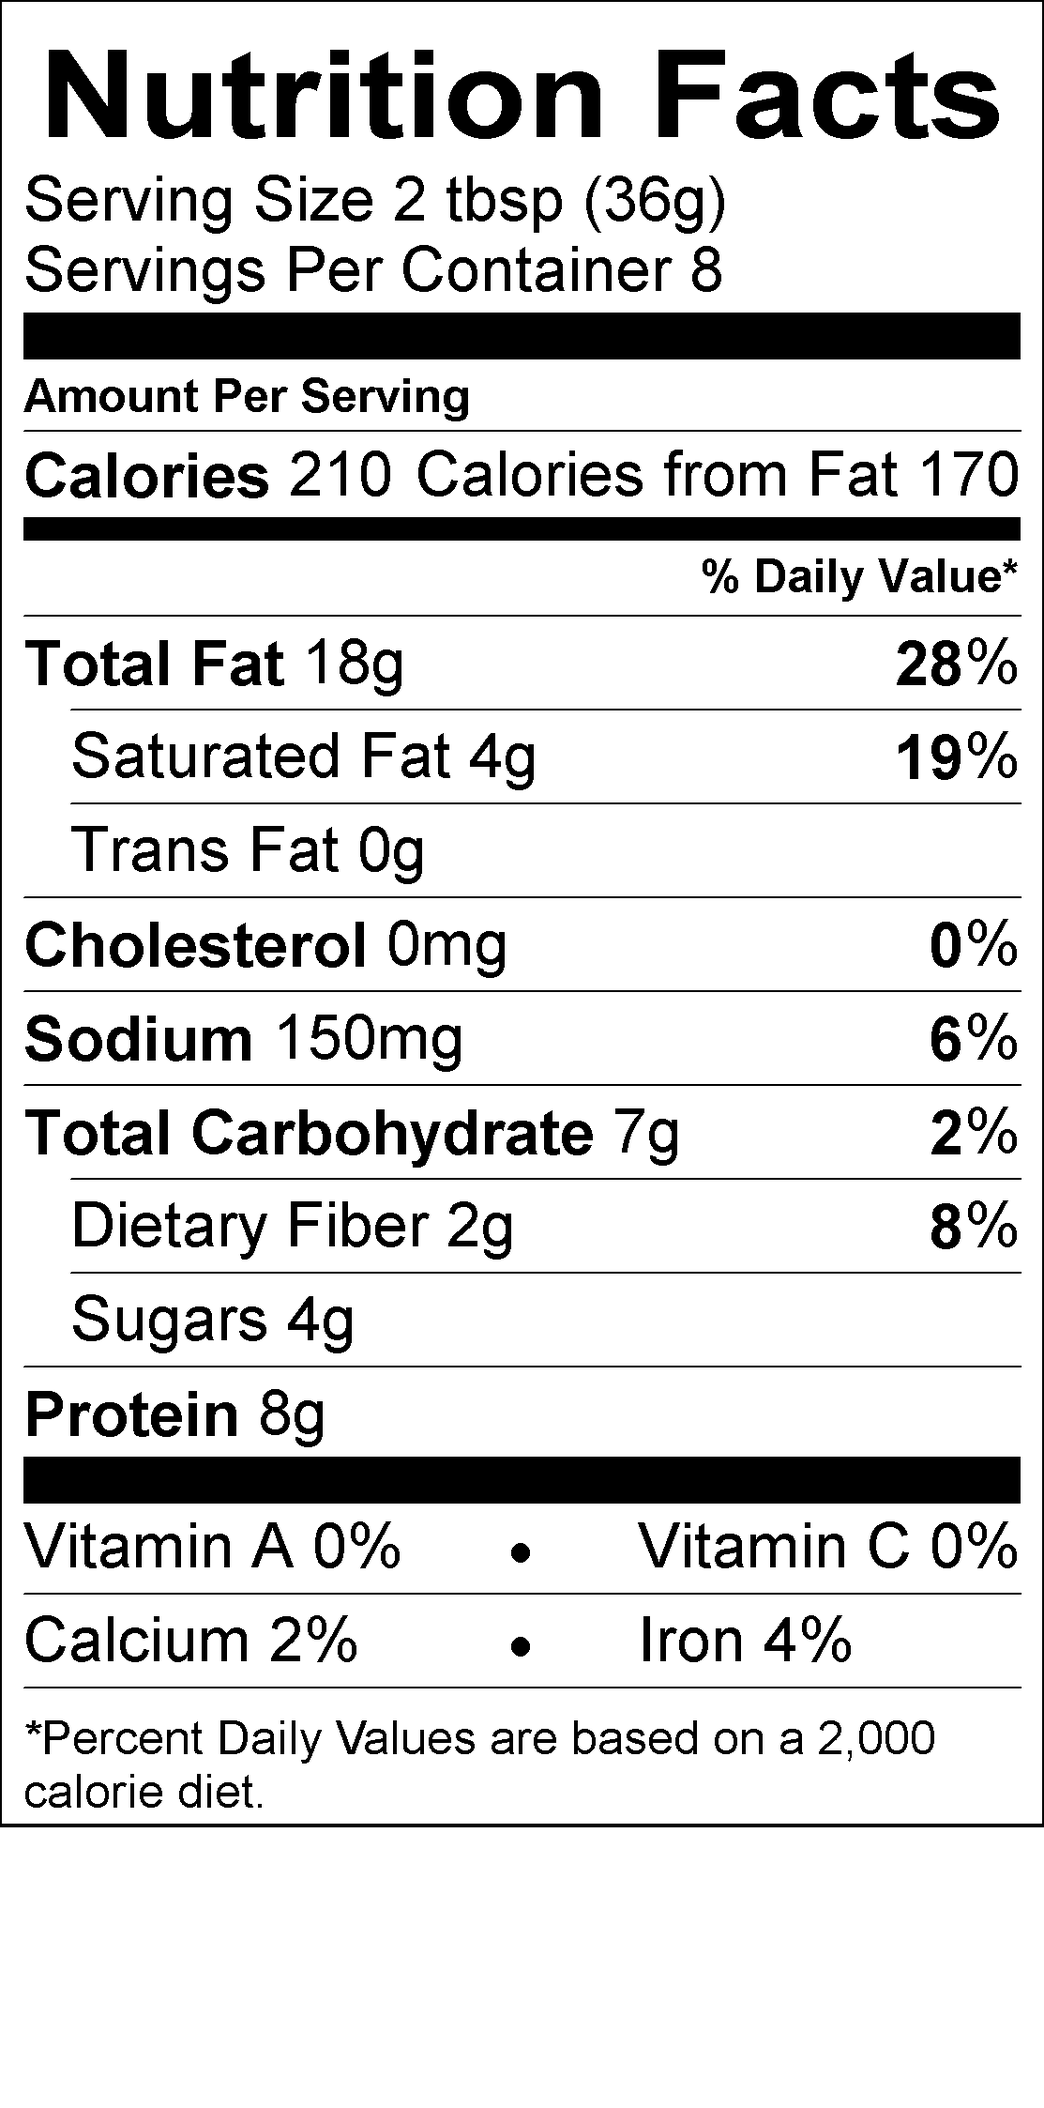
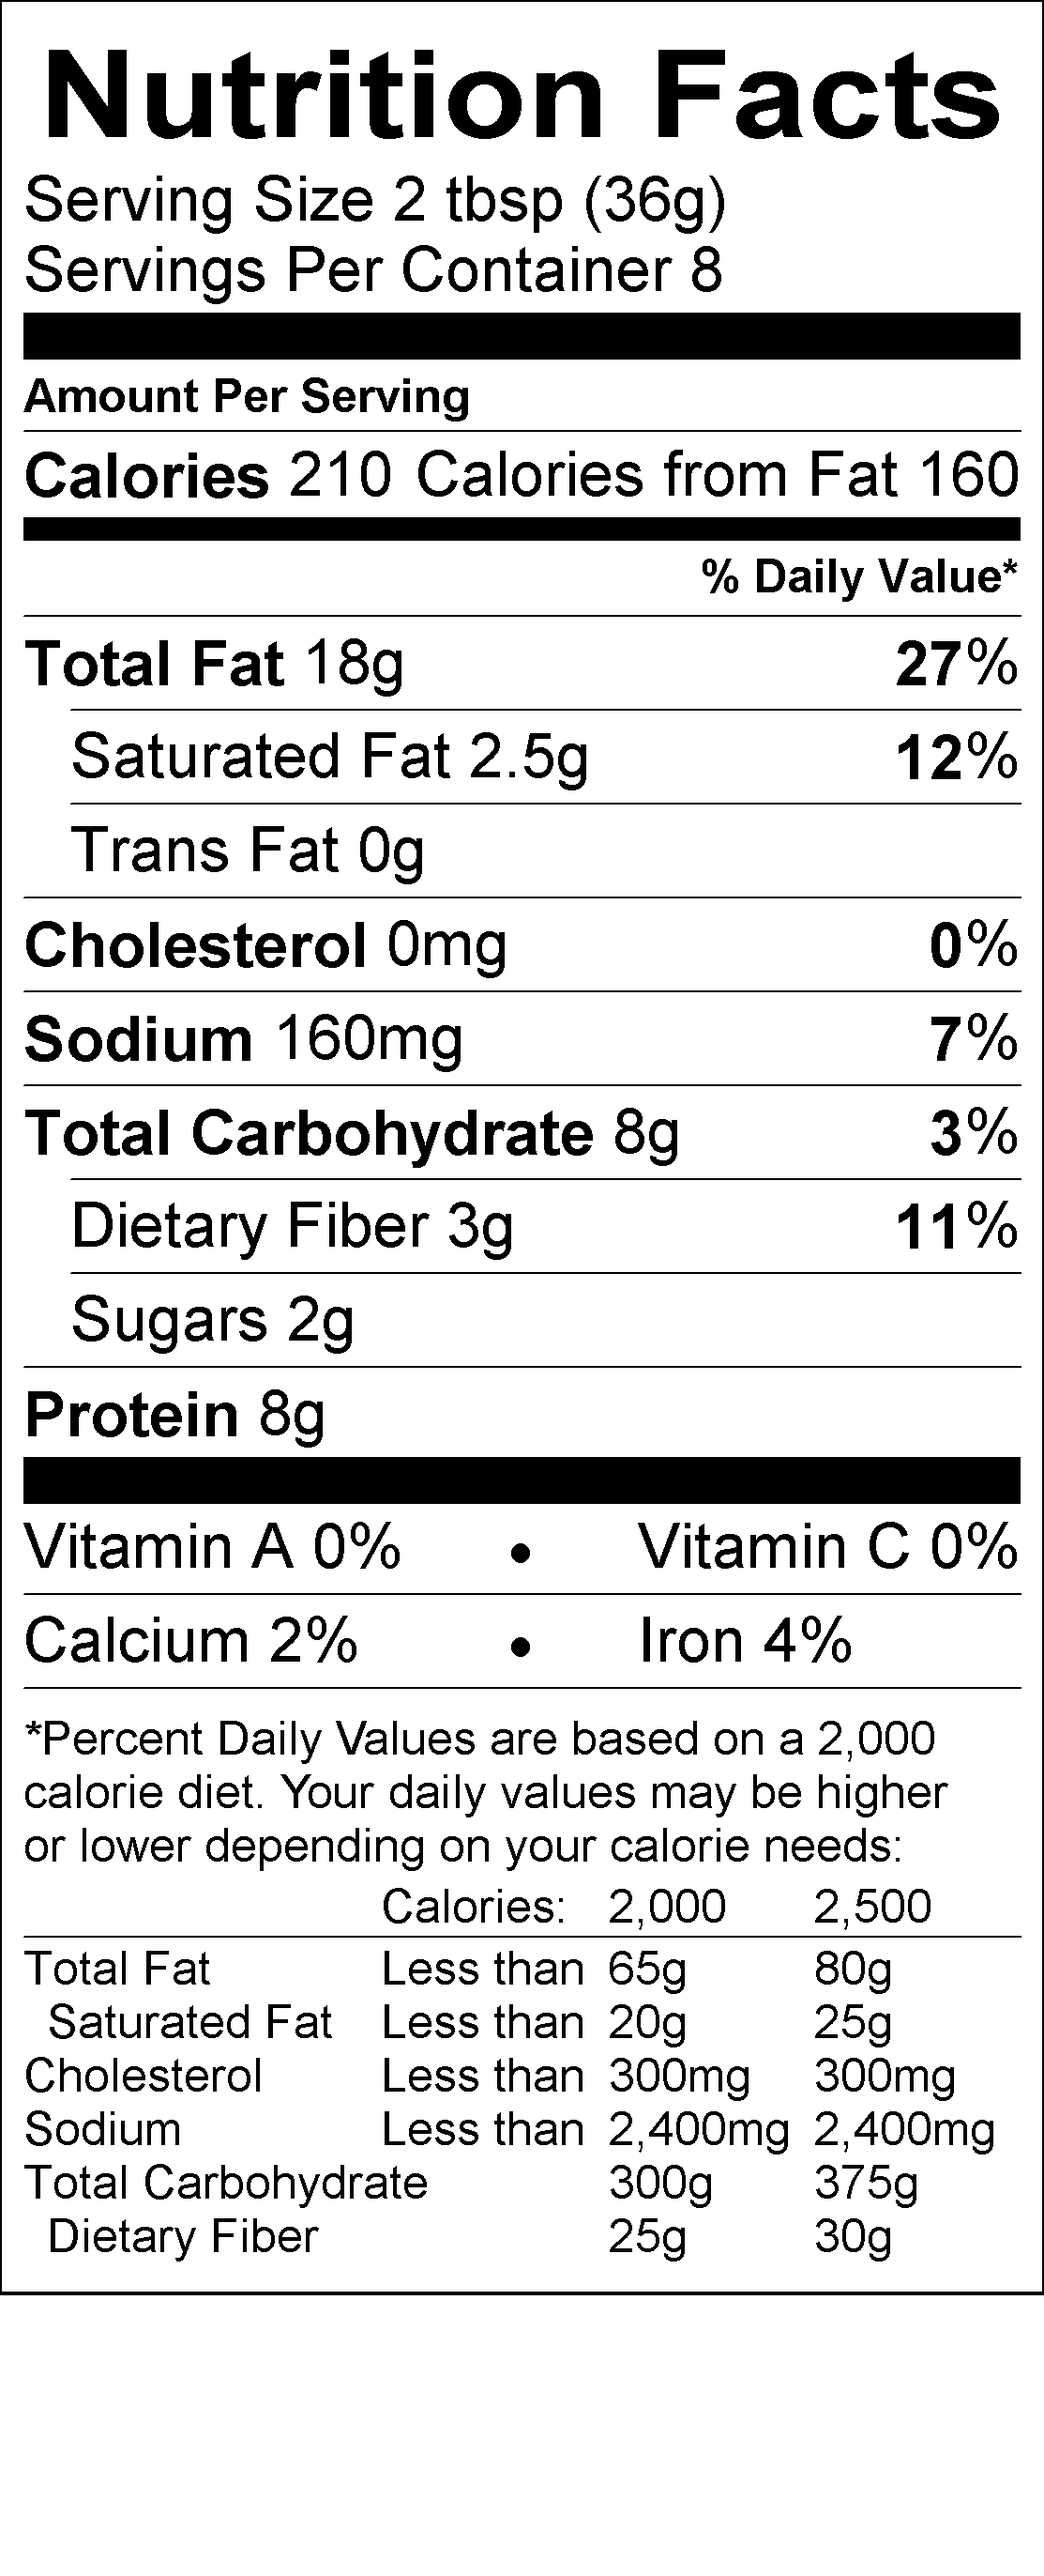
add a get to know your peanut butter section and update nutrition label image

Changed region(s): [[0.0, 0.0, 0.9775, 0.9038], [0.9775, 0.8727, 1.0, 0.9038]]

diff --git a/assets/css/main.css b/assets/css/main.css
@@ -564,6 +564,28 @@ div#header-home img#sublogo{
     margin: 0 auto;
 }
 
+.faq-section .split{
+    margin-bottom: 20px;
+}
+
+.faq-section .split .text-segment{
+    margin-top: 20px;
+}
+
+.faq-section .split .table-segment{
+    margin-top: 30px;
+}
+
+.faq-section table{
+    border: 1px #F47600 solid;
+}
+
+.faq-section table th{
+    text-align: center;
+    color: #F47600;
+    text-transform: uppercase;
+}
+
 #map{
     width: 800px;
     height: 600px;

diff --git a/index.php b/index.php
@@ -111,15 +111,65 @@
                         <p>STEEM is caffeinated peanut butter. What else do we need to say? STEEM is designed to provide a consistent release of sustained energy and the naturally slow digestion of peanut butter is the key to that. STEEM delivers protein, electrolytes, and caffeine, granting you hours of endurance and focus, and freeing you from distractions like hunger and fatigue.</p>
                     </div>
                 </div>
-                <div class="row">
-                    <div class="span5">
+                <div class="row split">
+                    <div class="span5 text-segment">
                         <h1>What's in this stuff?</h1>
                         <p>STEEM is made with natural peanut butter, and no artificial sweeteners. Oh, and as much caffeine as two cups of coffee, so stick with the normal serving suggestions for the best effect. Enjoy it however you would normally enjoy peanut butter: spread it on crackers, toast or fruit; re-acquaint yourself with the simple perfection of the peanut butter and jelly sandwich; or just jam a knife or a spoon or a finger into the jar and eat it like you do when no one's looking. Yes you do. Yes, you <em>do</em>.</p>
+                    </div>
+                    <div class="span5 table-segment">
+                        <table class="table table-bordered">
+                            <thead>
+                                <tr>
+                                    <th colspan="2">
+                                        Know Your Peanut Butter
+                                    </th>
+                                </tr>
+                            </thead>
+                            <tbody>
+                                <tr>
+                                    <td>
+                                        Ingredients:
+                                    </td>
+                                    <td>
+                                        Natural Peanut Butter (Peanuts, Salt), Organic Agave Nectar, Peanut Oil, Natural Caffeine (Green Coffee Extract)
+                                    </td>
+                                </tr>
+                                <tr>
+                                    <td>
+                                        Caffeine:
+                                    </td>
+                                    <td>
+                                        150mg Per Serving<br />
+                                        1200mg Per Jar
+                                    </td>
+                                </tr>
+                                <tr>
+                                    <td>
+                                        Nutrition:
+                                    </td>
+                                    <td>
+                                        <a href="">Click here to view</a>
+                                    </td>
+                                </tr>
+                                <tr>
+                                    <td>
+                                        Effects:
+                                    </td>
+                                    <td>
+                                        +2 STR +3 END +2 INT +6 LCK
+                                    </td>
+                                </tr>
+                            </tbody>
+                        </table>
+                    </div>
+                </div>
+                <div class="row split">
+                    <div class="span5 image-segment">
+                        <img src="/assets/img/template/two_jars.png" />
+                    </div>
+                    <div class="span5 text-segment">
                         <h1>Who is STEEM for?</h1>
                         <p>STEEM's steady release of energy (without the jittery feeling) makes it perfect not only for athletes and active people, but also for normal life. How about never having to choose awful breakroom coffee because you don't want to spend more on caffeine than you spend on your lunch? How about having enough energy to finish that backyard project in one day instead of putting it off for another weekend? How about when an all-night study session has suddenly become the morning of the test? How about never having to bring that damn percolator on camping trips just so you can avoid that crippling noontime caffeine headache? How about not worrying about nodding off in meetings, or in class, or at the wheel? How about just having the energy to get going when you need it?</p>
-                    </div>
-                    <div style="width:400px;" class="span5">
-                        <img style="margin-top:60px;" src="/assets/img/template/two_jars.png" />
                     </div>
                 </div>
                 <div class="row">
